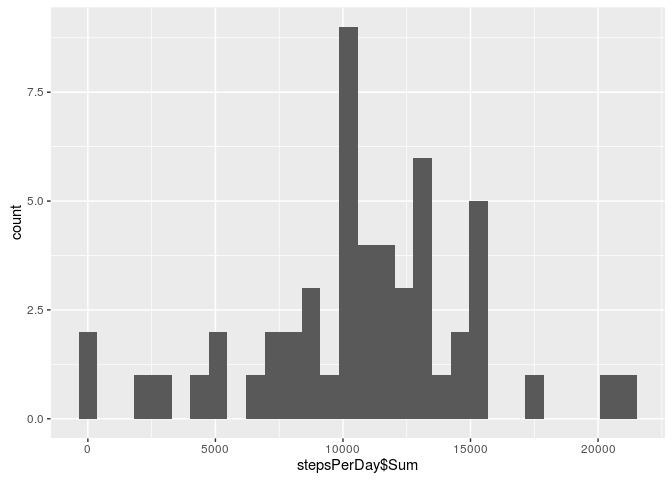
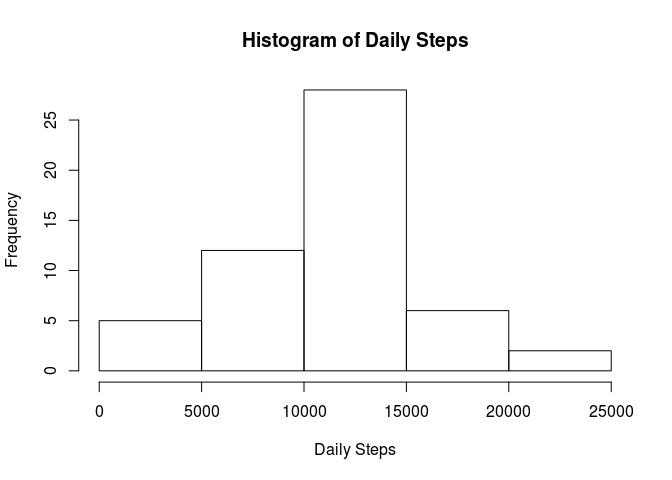
corrected histogram bin width/annotation

diff --git a/PA1_template.html b/PA1_template.html
@@ -124,8 +124,8 @@ data$date &lt;- ymd(data$date ,tz = &quot;America/New_York&quot;) </code></pre>
 <div id="what-is-mean-total-number-of-steps-taken-per-day" class="section level2">
 <h2>What is mean total number of steps taken per day?</h2>
 <pre class="r"><code>stepsPerDay &lt;- data[!is.na(data$steps),] %&gt;% group_by(date) %&gt;% summarise(Sum = sum(steps))
-qplot(stepsPerDay$Sum, geom=&quot;histogram&quot;) </code></pre>
[1 lines of base64/hex data omitted]
+hist(stepsPerDay$Sum, main = &quot;Histogram of Daily Steps&quot;, xlab = &quot;Daily Steps&quot;)</code></pre>
[1 lines of base64/hex data omitted]
 <div id="the-mean-is" class="section level4">
 <h4>The mean is</h4>
 <pre class="r"><code>mean(stepsPerDay$Sum)</code></pre>
@@ -161,8 +161,8 @@ qplot(interval, Average, data = stepsPerInterval, geom=&quot;line&quot;) </code>
 <h4>replacing the NAs with the average for that interval</h4>
 <pre class="r"><code>dataCleaned[is.na(dataCleaned$steps), 1] &lt;- merge(dataCleaned[is.na(dataCleaned$steps), ], stepsPerInterval, by = &quot;interval&quot;)$Average
 stepsPerDayCleaned &lt;- dataCleaned %&gt;% group_by(date) %&gt;% summarise(Sum = sum(steps))
-qplot(stepsPerDayCleaned$Sum, geom=&quot;histogram&quot;) </code></pre>
[1 lines of base64/hex data omitted]
+hist(stepsPerDayCleaned$Sum, main = &quot;Histogram of Daily Steps Cleaned&quot;, xlab = &quot;Daily Steps&quot;)</code></pre>
[1 lines of base64/hex data omitted]
 </div>
 <div id="the-mean-is-1" class="section level4">
 <h4>The mean is</h4>

diff --git a/PA1_template.md b/PA1_template.md
@@ -16,7 +16,7 @@ data$date <- ymd(data$date ,tz = "America/New_York")
 
 ```r
 stepsPerDay <- data[!is.na(data$steps),] %>% group_by(date) %>% summarise(Sum = sum(steps))
-qplot(stepsPerDay$Sum, geom="histogram") 
+hist(stepsPerDay$Sum, main = "Histogram of Daily Steps", xlab = "Daily Steps")
 ```
 
 ![](PA1_template_files/figure-html/unnamed-chunk-3-1.png)
@@ -82,7 +82,7 @@ dataCleaned <- data
 ```r
 dataCleaned[is.na(dataCleaned$steps), 1] <- merge(dataCleaned[is.na(dataCleaned$steps), ], stepsPerInterval, by = "interval")$Average
 stepsPerDayCleaned <- dataCleaned %>% group_by(date) %>% summarise(Sum = sum(steps))
-qplot(stepsPerDayCleaned$Sum, geom="histogram") 
+hist(stepsPerDayCleaned$Sum, main = "Histogram of Daily Steps Cleaned", xlab = "Daily Steps")
 ```
 
 ![](PA1_template_files/figure-html/unnamed-chunk-9-1.png)
